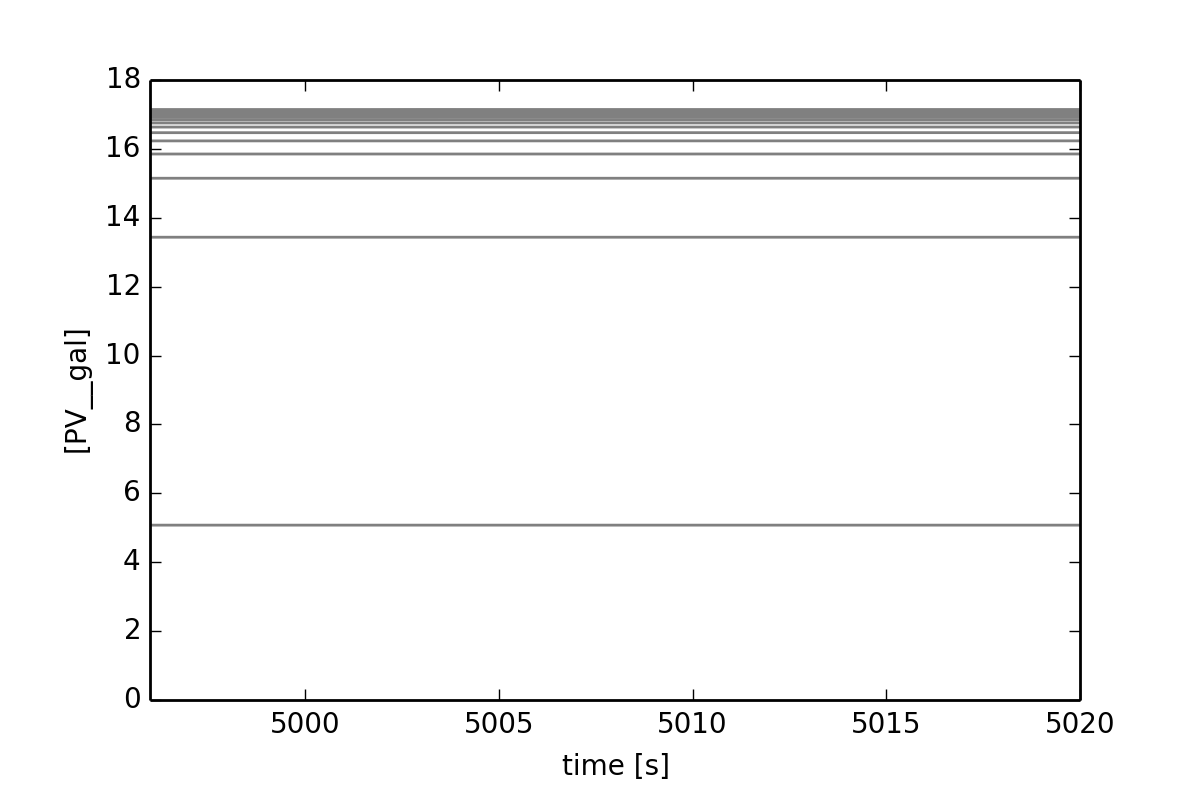
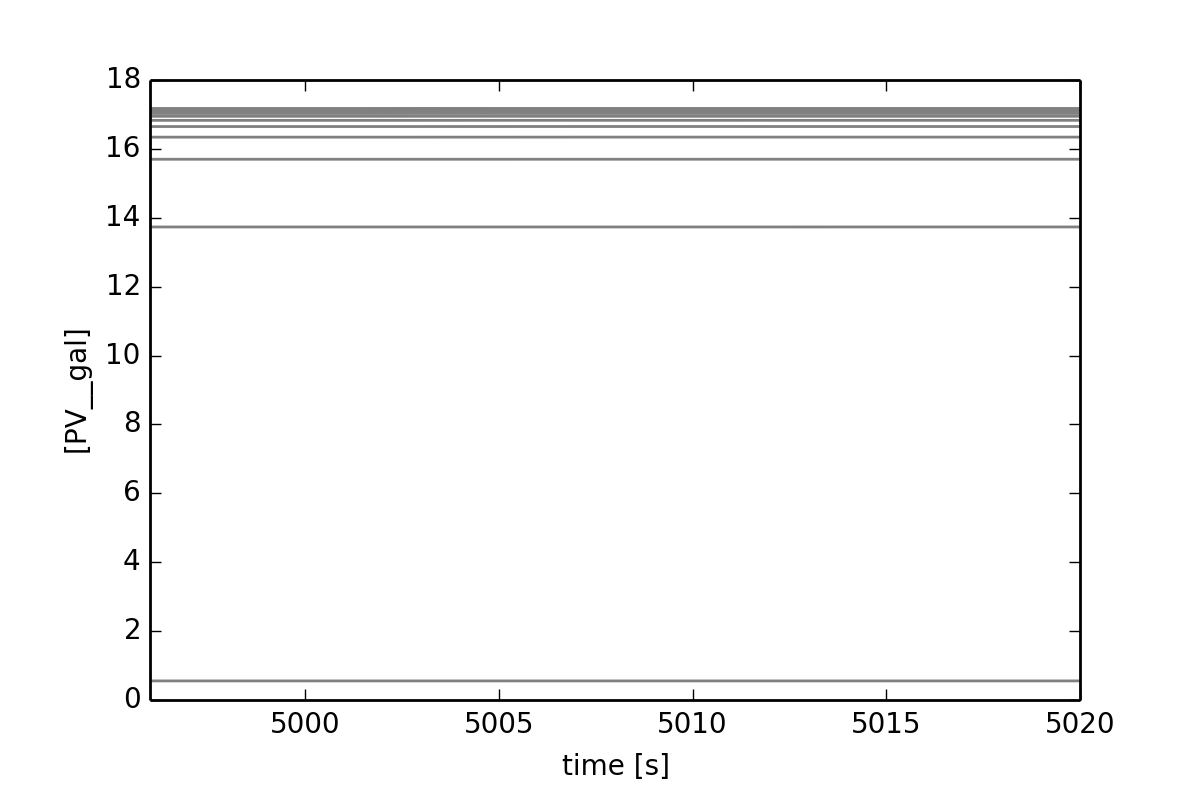
Running pressure simulations for dilution curves

Changed region(s): [[0.1233, 0.125, 0.8942, 0.25], [0.1233, 0.8438, 0.8942, 0.875], [0.1233, 0.2812, 0.8942, 0.3125]]

diff --git a/python/simulator/simulator/roadrunner_tools/galactose_dilution_pressure.py b/python/simulator/simulator/roadrunner_tools/galactose_dilution_pressure.py
@@ -10,6 +10,7 @@ the given geometry.
 """
 import numpy as np
 import copy
+import pylab as plt
 import galactose_functions as gf
 import roadrunner_tools as rt
 import roadrunner_plots as rp
@@ -33,23 +34,25 @@ sel += [ "".join(["[", item, "]"]) for item in ['PV__alb', 'PV__gal', 'PV__galM'
 sel += [ "".join(["[", item, "]"]) for item in r.model.getBoundarySpeciesIds()]
 sel += [ "".join(["[", item, "]"]) for item in r.model.getFloatingSpeciesIds() if item.startswith('H')]
 sel += [ "".join(["[", item, "]"]) for item in r.model.getFloatingSpeciesIds() if item.startswith('D')]
-sel += [item for item in r.model.getReactionIds() if item.startswith('H')]
+sel += [item for item in r.model.getReactionIds() if item.startswith('C')]
 sel += [item for item in r.model.getReactionIds() if item.startswith('D')]
-sel += ['PP_Q']
+sel += ['PP_Q', 'Q_sinunit', 'Vol_sinunit', 'Pa']
+
 sel_dict = rt.set_selection(r, sel)
 
 # distribution of pressures
 reload(gf)
-
 pressure = gf.pressure_sample() # [mmHg]
 p_pressure = gf.pressure_probability(pressure)
 
 f_Pa_per_mmHg = 133.322
 pressure = pressure * f_Pa_per_mmHg # [Pa]
 
-# TODO: The volume flow becomes challenging now
-# f_fac = 0.5
-f_fac = 1.0
+# TODO: The volume flow becomes challenging
+# TODO: Recalculate the necessary factor to account for scaling of local 
+# perfusion to global perfusion
+# f_fac = 0.5 (before)
+f_fac = 0.9
 
 # Not simple scaling, but scaling from the offset of perivenious flow
 # TODO
@@ -72,7 +75,7 @@ for gal in [0.28, 12.5, 17.5]:
         d = copy.deepcopy(settings.D_TEMPLATE) 
         d["[PP__gal]"] = gal
         d["Pa"] = pa
-        d["scale_f"] = r.scale_f/2    # dog half GEC 
+        d["scale_f"] = r.scale_f/2    # dog half GEC of human
         p_list.append(d)
     gal_p_list.append(p_list)
 print(gal_p_list)
@@ -90,16 +93,24 @@ with open("flux_plots/parameters.txt", 'wb') as f:
 #########################################################################    
 # Average
 #########################################################################  
-# Average via probability and flux weighted summation
-# Get the actual flux for the given simulation
+# Average via probability and flux weighted summation with volume flows
+# from simulation
 
-# TODO: Necessary to readout variables during the integration for the subsequent
-# calculation
-# Q_sinunit = PP_Q
-# 
-Q_sinunit = np.pi * r.y_sin**2 * flow_sin # [m³/s]
-weights = p_flux * Q_sinunit
+# flow is constant in simulation, so readout of first element is sufficient
+def get_par_from_solutions(name, solutions):
+    return [sol[name][0] for sol in solutions]
+Q_sinunit = get_par_from_solutions('Q_sinunit', f_list)
+Pa = get_par_from_solutions('Pa', f_list)
+
+plt.plot(pressure_sin, Pa, 'o-')
+plt.plot([0, np.max(pressure_sin)], [0, np.max(pressure_sin)], color='gray' )
+plt.show()
+
+weights = p_pressure * Q_sinunit
 weights = weights/sum(weights)
+print(weights)
+
+plt.plot(pressure_sin, weights, 'o-')
 
 compounds = ['gal', 'galM', 'rbcM', 'alb', 'suc', 'h2oM']
 ids = ['[PV__{}]'.format(id) for id in compounds]    
@@ -129,17 +140,18 @@ tlim = [settings.T_PEAK-4, settings.T_PEAK+20]
 rp.flux_plots(f_list, sel, xlim=tlim, show=show_plots)
 # average curves
 # rp.average_plots(timepoints, av_mats, xlim=tlim, show=show_plots)
-    
-
-rp.plot_data_with_sim(exp_data, timepoints, av_mats, scale=4.0*15.16943, time_shift=1.0)
-rp.plot_gal_data_with_sim(exp_data, timepoints, av_mats, scale=4.0*15.16943, time_shift=1.0)   
+f_scale = 70 # 55 (f_fac=1.0)
+rp.plot_data_with_sim(exp_data, timepoints, av_mats, scale=f_scale, time_shift=1.0)
+rp.plot_gal_data_with_sim(exp_data, timepoints, av_mats, scale=f_scale, time_shift=1.0)   
  
 
-# additional information
+# additional information (necessary that the respective components are
+# available in the selection)
+
 # plot single timecourses
-rp.flux_plot(f_list, name='GLUT2_GALM', selections=sel, comp_type="D")
-rp.flux_plot(f_list, name='GALKM', selections=sel)
-rp.flux_plot(f_list, name='galM', selections=sel, xlim=tlim)
+rp.flux_plot(f_list, name='GLUT2_GALM', selections=sel, comp_type="D", xlim=tlim)
+rp.flux_plot(f_list, name='GALKM', selections=sel, comp_type="C", xlim=tlim)
+rp.flux_plot(f_list, name='galM', selections=sel, comp_type="H", xlim=tlim)
 
 rp.flux_plot(f_list, name='galM', selections=sel, xlim=tlim, comp_type="H")
 rp.flux_plot(f_list, name='galM', selections=sel, xlim=tlim, comp_type="D")

diff --git a/python/modelcreator/modelcreator/models/SinusoidalUnit.py b/python/modelcreator/modelcreator/models/SinusoidalUnit.py
@@ -97,7 +97,7 @@ pars.extend([
             ('y_end',     0.165E-6,   'm',      True),
             ('y_dis',       2.3E-6,   'm',      True),
             ('y_cell',     9.40E-6,   'm',      True),
-            ('flow_sin',    229E-6,   'm_per_s',True),
+            
             ('N_fen',        10E12,   'per_m2', True),
             ('r_fen',      53.5E-9,   'm',      True),
             
@@ -158,7 +158,8 @@ rules.extend([
             ("f_sin",  "Vol_sin/(A_sinunit*x_sin)", '-'),
             ("f_dis", "Vol_dis/(A_sinunit*x_sin)", '-'),
             ("f_cell", "Vol_cell/(A_sinunit*x_sin)", '-'),
-            ("Q_sinunit", "pi*y_sin^2*flow_sin", "m3_per_s"),
+            ('flow_sin',    'PP_Q/A_sin',   'm_per_s'),
+            ("Q_sinunit", "PP_Q", "m3_per_s"),
             ("f_fen", "N_fen*pi*(r_fen)^2", '-'),
             # ("m_liv", "rho_liv * Vol_liv", "kg"),
             # ("q_liv" , "Q_liv/m_liv", "m3_per_skg"),

diff --git a/python/modelcreator/modelcreator/models/GalactoseFactory.py b/python/modelcreator/modelcreator/models/GalactoseFactory.py
@@ -22,7 +22,7 @@ if __name__ == "__main__":
     # definition of cell model and tissue model
     Nc = 20
     Nf = 1
-    version = 127
+    version = 128
     cell_model = CellModel.createModel('galactose.GalactoseCell')
     tdict = TissueModel.createTissueDict(['SinusoidalUnit', 
                                           'galactose.GalactoseSinusoid']) 

diff --git a/python/simulator/simulator/roadrunner_tools/galactose_settings.py b/python/simulator/simulator/roadrunner_tools/galactose_settings.py
@@ -7,7 +7,7 @@ Created on Thu Feb 12 11:58:16 2015
 
 # Model version to use
 # VERSION = 107 # flow constant
-VERSION = 127 # pressure model
+VERSION = 128 # pressure model
 
 SBML_DIR = '/home/mkoenig/multiscale-galactose-results/tmp_sbml'
 T_PEAK = 5000
